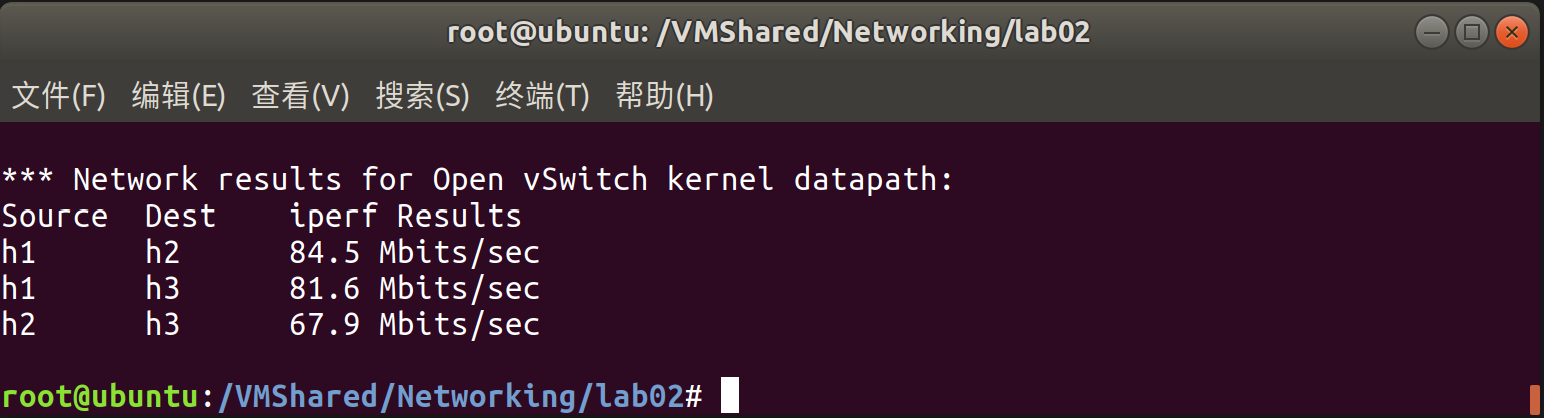
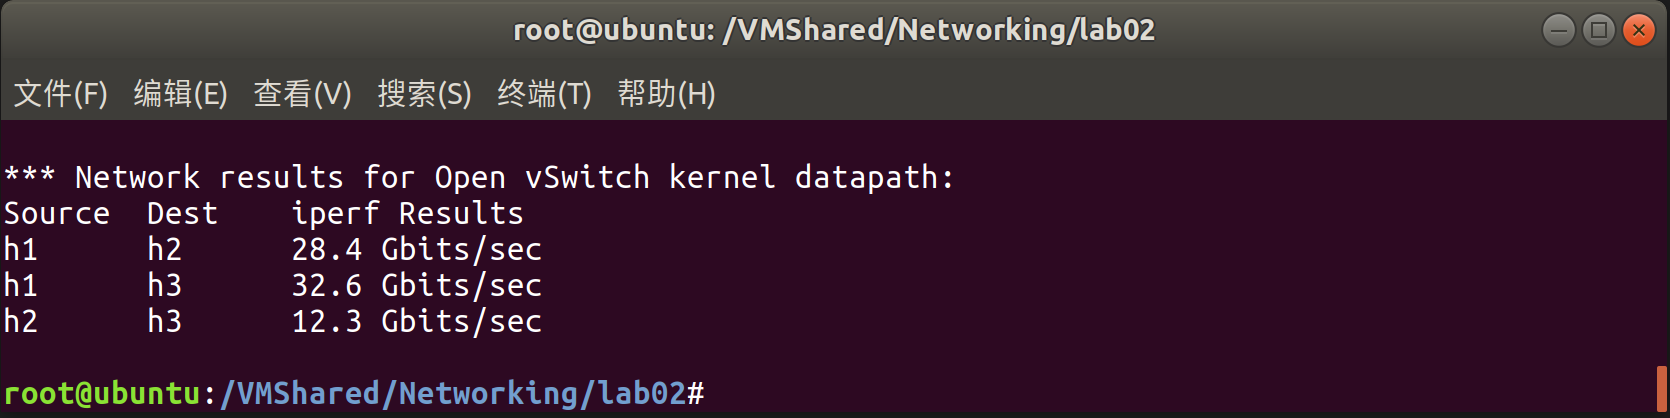
fix: task1

diff --git a/lab02/task1.py b/lab02/task1.py
@@ -25,9 +25,9 @@ class NetworkTopo(Topo):
 
         # Wire up switches
         self.addLink(h1, s1)
-        self.addLink(s1, s3)
+        self.addLink(s1, s3, bw=10)
         self.addLink(h3, s3)
-        self.addLink(s1, s2)
+        self.addLink(s1, s2, bw=10)
         self.addLink(h2, s2)
 
 def run():
@@ -52,8 +52,7 @@ def run():
         info("*** testing", datapath, "datapath\n")
         Switch = switches[datapath]
         results[datapath]=[]
-        link = partial(TCLink, bw=100)
-        net = Mininet(topo=topo,switch=Switch,controller=Controller,link=link,waitConnected=True)
+        net = Mininet(topo=topo,switch=Switch,controller=Controller,waitConnected=True)
         net.start()
         for i in irange(0,2):
             for j in irange(i+1,2):

diff --git a/lab02/task2.py b/lab02/task2.py
@@ -1,0 +1,8 @@
+# 2. Now let us set the packet loss rate of the link (s1,s2) and (s1,s3) as 5%. Use Iperf to test the TCP throughput again.
+#
+# h1--s1--s2--h2
+#      |
+#     s3
+#      |
+#     h3
+
